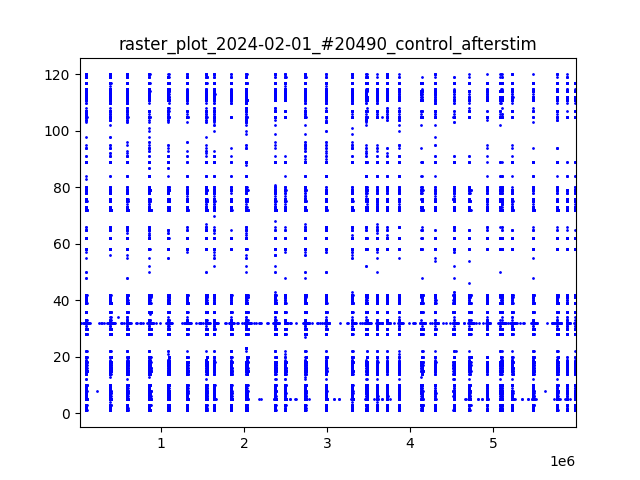
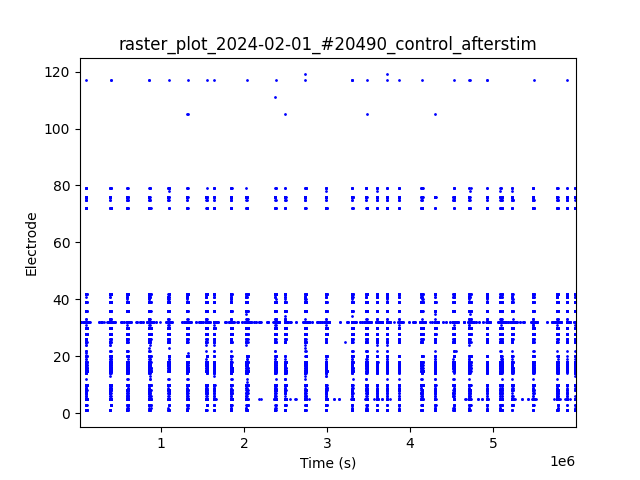
raster plot print

diff --git a/analysis_manager.py b/analysis_manager.py
@@ -38,7 +38,7 @@ file_path_compare2 = r"C:\Users\dvirg\OneDrive\Desktop\toar1\year4\project\CODE\
 
 
 
-print("choose action: \n1: plot signal \n2: plot_heatmap\n3: raster_plot\n4: electrode_comparison_analysis")
+print("choose action: \n1: plot signal \n2: plot_heatmap\n3: raster_plot\n4: statistic_test\n5: electrode_comparison_analysis")
 
 # plot heatmap action
 action = int(input())
@@ -62,7 +62,7 @@ if action == 2:
 # create raster plot
 if action == 3:
     
-    raw_data_path= r"C:\Users\dvirg\OneDrive\Desktop\toar1\year4\project\CODE\recorders\2024-02-01T14-54-37McsRecording_MEA21009_predictable_afterstim_A-00020.h5"
+    raw_data_path= r"C:\Users\dvirg\OneDrive\Desktop\toar1\year4\project\CODE\recorders\2024-06-13T16-38-48McsRecording_MEA21432_control_afterstim_A-00020.h5"
     create_raster_plot(raw_data_path)
 
 # add file electrode_comparison_analysis
